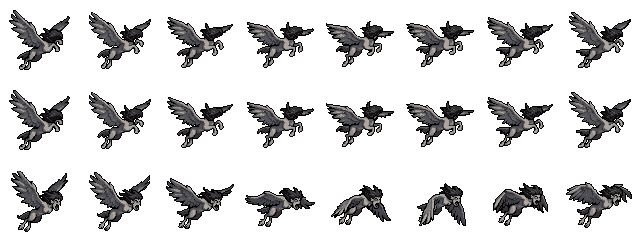
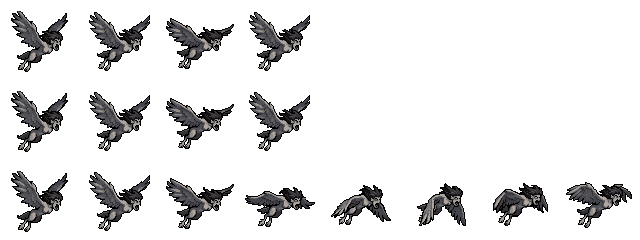
Smeltworks Idle v0.93.2: drawn weapons, calmer lich, harpy keeps her face
The six weapons are drawn art that still takes the colour of its socket count,
and are brighter than the monsters. The Drowned Lich idles without the staff
flashing, and the Gale Harpy's idle and flight show her face.

Claude-Session: https://claude.ai/code/session_01YJ1shjsdUrQRd5AoN76fPF

Changed region(s): [[0.0, 0.0292, 1.0, 0.2917], [0.0, 0.3792, 1.0, 0.6417]]

diff --git a/js/sprites.js b/js/sprites.js
@@ -877,6 +877,28 @@ function grid(name) {
   const rows = d.m ? d.rows.map(r => r + r.split('').reverse().join('')) : d.rows;
   return (d.grid = rows);
 }
+/* ---- Weapons are drawn art, kept here as pixels so they can still take the colour of their socket count: a number in
+   pal is a metal pixel, 0 (dark) to 1 (bright), painted from the palette's g, h and c; a string is a fixed colour.
+   Each is twice the size of a grid sprite (k), and drawn at half scale. */
+SP.ART = {
+  hammer: {"k":2,"pal":["#020202","#030202","#000100","#010101",0.875,1.0,"#040304",0.375,0.5,"#090808","#020201","#1b140e","#08080b","#000001",0.625,0.75,0.0,"#5d4439","#2f3137","#323337","#050402","#030100","#382a23","#040101","#533e30","#2f2620","#362620","#050302","#513b30","#473932","#3a2a21","#0a0605","#06060a","#242325","#291d16","#030302","#574236","#211914"],"rows":["................................","................................",".................abc............","................defea...........","...............gefhifj..kl......","..............befiiiifmnod......","..............oefhiiiifpmg......",".............mpfhhiiiiifhn......","............nheqhhhiiiiieia.....","............drshhhhhhhihiehn....",".............dsthhhhhhhhhhhoa...","..............dqqhhhhhhhhheqqb..","...............bqqhhhhhhheqqqb..","................nsqhhhhheqqqqu..","................vwbqqhheqqqqa...","...............xyzAdqqesqqqg....","..............xrAyB.gqsqqqa.....",".............xrzCB...dzqqk......","............gDDDB.....nck.......","...........dtBEF................","..........gqFzn.................",".........gGgHd..................","........BDmzdd..................",".......BFtmza...................","......uwzFHn....................","....cdDjImJ.....................","...nDKLDLc......................","..cDKALHu.......................","..cIDDDc........................","...dIyzk........................","....cck.........................","................................"]},
+  axe: {"k":2,"pal":["#000100","#040403","#020201",0.75,"#000000","#010101",0.25,0.625,0.5,"#030302",1.0,0.875,0.125,"#392d22","#070403","#695242","#564235","#3d3027",0.0,"#45342b","#664e3e","#423329","#110b07","#614e3f","#403126","#050402","#48382d","#4e3e31"],"rows":["................................","................................","......................ab........",".....................cde........","....................cdddf.......","...................fddgdha......","..................chdggghhc.....",".................ehdggggghif....","...............cedhggggggghhce..","..............fchdggggggggghdhae","..............jghggggggggggggkke","...............fgggggggggggglkka","................emgggggggggddle.","...............fncggggggggddda..","..............opqrcsgggggdddfc..",".............cppqtnasgggdddef...",".............cuvtva.cmmmddef....","...........jwpvvvc...ciihff.....","...........cxyvyc....cihoc......","..........zpyyyj......aaa.......",".........cxyyyf.................","........cxvyyb..................",".......fxxyrf...................","......bptyro....................",".....cutvyc.....................","....cpptvj......................","..caputyf.......................",".axxAAvz........................",".aqBAAc.........................",".anBBc..........................",".fonAc..........................","..aff..........................."]},
+  sword: {"k":2,"pal":[0.375,"#010101","#000000","#362721","#020203",1.0,"#050402","#030303",0.875,0.125,0.25,"#020202","#050403","#040303",0.0,0.75,"#3e2c24","#3f2b26","#050303","#3c2b24","#3d2b25"],"rows":["..............................a.","...........................bccad","..........................efffb.",".........................gfffab.","........................hiijaac.",".......................hiijkal..","......................miijkkb...",".....................hiijkkh....","....................giijkkb.....","...................niijkkh......","..................hiijkkb.......",".................liijkkh........","................biijkkl.........","...............liijkkh..........","..............eiijjkl...........",".............hiijkkh............","............miiokkl.............","...........hiiojkkb.............","..........liiojkkl..............",".........giiookkl...............","....bc..gppookkn................","...hkklbppookkn.................","....nkkhaookkg..................",".....nkkjqkkh...................","......ljjjoc....................",".....lrdjjjb....................","....sqqtbbjjl...................","...luqqg..sjg...................","..gqutl....l....................",".gtqds..........................","ndudb...........................",".ccc............................"]},
+  staff: {"k":2,"pal":["#020101","#060603",0.25,"#000000","#010100","#0d0e0f","#000100",0.375,0.5,"#303033","#11100e",1.0,0.625,"#030201",0.125,"#30231b",0.0,"#392d25","#090603","#483427","#20150b","#35281f","#2d1e15","#654e3c","#543d2f","#3e2d23","#5e4739","#503a2c","#49362b","#5e4535","#4b382c","#241a13","#3f2f24","#130a04","#6b5141"],"rows":["......................aaa.......",".....................bccadef....","....................bcaghhij....","...................bckdccllmj...","..................nhodcccclcib..","..................nhoacnbbcccn..","..................ahoabmincccag.","..................ahinmibcccpna.","..................nkcicaqqqobca.","...................ericnnqqncq..",".................stuvwoccfficn..",".................nxuyzpncccoa...",".................nABCtb.geee....","................nDzzrs..........","...............bzDpna...........","..............bExvna............","............nbFAGH..............","...........bAzptH...............","...........bAzvb................","...........Hyzn.................","..........sxrzn.................",".........HCxra..................","........HCDCd...................",".......uIxBe....................","......sAIGa.....................",".....HpDEs......................","...bHApye.......................","..nBCxps........................",".nIIvEn.........................",".nxGve..........................",".nBGd...........................","..ang..........................."]},
+  bow: {"k":2,"pal":["#000101",1.0,"#010101","#020201","#2c1f19",0.25,0.5,"#040403","#050202","#030302","#000100","#020101","#020303","#050201","#060100","#010102"],"rows":["..........abc...................","..........abbd..................","...........efgh.................","...........biggj................","...........b.hgf................","...........b..hgi...............","...........b..jggk..............","...........b...hgl..............","...........b...hgg..............","...........b...hggj.............","...........b....lgg.............","...........b....lgg.............","...........b....lgg.............","...........b....lfh.............","...........b....hbj.............","...........b....hgc.............","...........b....lfc.............","...........b....lga.............","...........b....jec.............","...........b....hbc.............","...........b....lfc.............","...........b....lggm............","...........b....lggh............","...........b....lggm............","...........b....fgl.............","...........b...ige..............","...........b...igj..............","...........b..ign...............","...........b.hgj................","...........bdgo.................","...........bdgc.................","..........ph.a.................."]},
+  dagger: {"k":2,"pal":["#030202","#040302","#010101",0.875,0.25,"#000000","#030201",1.0,0.375,"#46342b","#000100","#0a0806",0.125,"#060505",0.625,"#160c0a","#040201",0.5,0.0,"#48362d","#4b372d","#291e1b","#2e211d"],"rows":["................................","...........................abc..","..........................cdef..","........................gahijb..",".......................ghhiik...","......................lhhiiik...",".....................lhhmeik....","....................lhhmmiic....","...................lhhmmiif.....","..................chhmmiiif.....",".................bhdmmiiic......","................addmmiiia.......","...............nhoomiiia........","..............ahoomiiip.........",".........l...ghoomiiin..........","........gdp.qhoomeiip...........",".......lrirbdrrmmeii............","........nlireiemeein............",".........lbiisseeec.............","..........ppiiseef..............",".........ntuveenf...............","........qwuwwneef...............",".......njuvwwcneef..............","......bjjvwwq..cek..............",".....qtuvwwg....f...............","....gjtwwwb.....................","..bcipjwwg......................","..fidivwb.......................","..ciiimk........................","..keemmc........................","...ccff.........................","................................"]},
+};
+const hex3 = h => [parseInt(h.slice(1, 3), 16), parseInt(h.slice(3, 5), 16), parseInt(h.slice(5, 7), 16)];
+function artCanvas(name, pal, mode) {
+  const key = 'art|' + name + '|' + pal + '|' + (mode || ''); let c = cache.get(key); if (c) return c;
+  const d = SP.ART[name], P = Object.assign({}, BASE, SP.PAL[pal] || {}), g = hex3(P.g), h = hex3(P.h), l = hex3(P.c);
+  const metal = t => { const a = t < 0.5 ? g : h, b = t < 0.5 ? h : l, q = t < 0.5 ? t * 2 : t * 2 - 2 + 1; return 'rgb(' + a.map((v, i) => Math.round(v + (b[i] - v) * q)).join(',') + ')'; };
+  const lift = p => { const v = hex3(p); return Math.max(...v) < 48 ? p : 'rgb(' + v.map(q => Math.min(255, Math.round(q * 1.45 + 14))).join(',') + ')'; };      // weapons are drawn brighter than the monsters, to stand apart from them; the outline stays dark
+  c = document.createElement('canvas'); c.width = d.rows[0].length; c.height = d.rows.length; const x = c.getContext('2d');
+  const AL = 'abcdefghijklmnopqrstuvwxyzABCDEFGHIJKLMNOPQRSTUVWXYZ0123456789';
+  d.rows.forEach((r, j) => { for (let i = 0; i < r.length; i++) { if (r[i] === '.') continue; const p = d.pal[AL.indexOf(r[i])]; x.fillStyle = mode === 'flash' ? '#ffffff' : mode === 'shade' ? '#000000' : typeof p === 'number' ? metal(0.35 + 0.65 * p) : lift(p); x.fillRect(i, j, 1, 1); } });
+  cache.set(key, c); return c;
+}
 /* ---- Sprites kept as image sheets (img/), for art that is drawn and not built from the grids above. A sheet is
    rows of animations, every frame the same size. Anything that asks for a sprite by name gets one of these if the
    name is here: SP.size, SP.canvas and SP.draw all answer for it. */
@@ -900,8 +922,8 @@ SP.SHEETS = {
   d_ghoul: { src: 'img/d_ghoul.png', fw: 80, fh: 80, fps: 9, rows: { idle: [0, 8], walk: [1, 8], attack: [2, 8] }, box: [19, 14, 60, 72], side: true },
   d_wraith: { src: 'img/d_wraith.png', fw: 80, fh: 80, fps: 9, rows: { idle: [0, 8], walk: [1, 8], attack: [2, 8] }, box: [11, 16, 70, 76], side: true },
   d_necro: { src: 'img/d_necro.png', fw: 80, fh: 80, fps: 9, rows: { idle: [0, 8], walk: [1, 8], attack: [2, 5] }, box: [21, 14, 58, 72], side: true },
-  d_lich: { src: 'img/d_lich.png', fw: 96, fh: 96, fps: 8, rows: { idle: [0, 8], walk: [1, 8], attack: [2, 8] }, box: [20, 15, 75, 88], side: true },
-  d_harpy: { src: 'img/d_harpy.png', fw: 80, fh: 80, fps: 9, rows: { idle: [0, 8], walk: [1, 8], attack: [2, 8] }, box: [9, 10, 70, 79], side: true },
+  d_lich: { src: 'img/d_lich.png', fw: 96, fh: 96, fps: 5, rows: { idle: [0, 4], walk: [1, 8], attack: [2, 8] }, box: [20, 15, 75, 88], side: true },
+  d_harpy: { src: 'img/d_harpy.png', fw: 80, fh: 80, fps: 7, rows: { idle: [0, 4], walk: [1, 4], attack: [2, 8] }, box: [9, 10, 70, 79], side: true },
   d_cultist: { src: 'img/d_cultist.png', fw: 80, fh: 80, fps: 9, rows: { idle: [0, 8], walk: [1, 8], attack: [2, 8] }, box: [24, 14, 56, 72], side: true },
   d_wisp: { src: 'img/d_wisp.png', fw: 64, fh: 64, fps: 9, rows: { idle: [0, 8], walk: [1, 8], attack: [2, 8] }, box: [6, 6, 57, 64], side: true },
   d_wyrmling: { src: 'img/d_wyrmling.png', fw: 80, fh: 80, fps: 9, rows: { idle: [0, 8], walk: [1, 8], attack: [2, 8] }, box: [11, 20, 68, 72], side: true },
@@ -936,10 +958,11 @@ function sheetCanvas(name, mode, fr) {
   if (mode === 'flash' || mode === 'shade') { x.globalCompositeOperation = 'source-in'; x.fillStyle = mode === 'flash' ? '#ffffff' : '#000000'; x.fillRect(0, 0, d.fw, d.fh); }
   sheetCache.set(key, c); return c;
 }
-SP.size = name => { if (SP.SHEETS[name]) { const b = SP.SHEETS[name].box; return { w: b[2] - b[0], h: b[3] - b[1] }; } /* (a sheet's size is its figure's, not its frame's) */ const g = grid(name); return { w: g[0].length + 2, h: g.length + 2 }; };
+SP.size = name => { if (SP.ART[name]) { const d = SP.ART[name]; return { w: d.rows[0].length / d.k, h: d.rows.length / d.k }; } if (SP.SHEETS[name]) { const b = SP.SHEETS[name].box; return { w: b[2] - b[0], h: b[3] - b[1] }; } /* (a sheet's size is its figure's, not its frame's) */ const g = grid(name); return { w: g[0].length + 2, h: g.length + 2 }; };
 /* returns a canvas with the sprite at 1px per cell, plus a dark outline. opts: flash (all white), tint */
 SP.canvas = function (name, pal, mode, fr) {
   if (SP.SHEETS[name]) return sheetCanvas(name, mode, fr);
+  if (SP.ART[name]) return artCanvas(name, pal, mode);
   const key = name + '|' + pal + '|' + (mode || '');
   let c = cache.get(key);
   if (c) return c;
@@ -968,6 +991,7 @@ SP.url = function (name, pal, scale) {
   let u = urls.get(key);
   if (u) return u;
   const src = SP.canvas(name, pal), c = document.createElement('canvas');
+  if (SP.ART[name]) scale = Math.max(1, Math.round(scale * 18 / src.width));      // drawn art fills the same box a grid sprite does
   c.width = src.width * scale; c.height = src.height * scale;
   const x = c.getContext('2d'); x.imageSmoothingEnabled = false;
   x.drawImage(src, 0, 0, c.width, c.height);
@@ -976,6 +1000,7 @@ SP.url = function (name, pal, scale) {
 };
 SP.draw = function (ctx, name, pal, x, y, scale, o) {
   const c = SP.canvas(name, pal, o && o.mode, o && o.fr);
+  if (SP.ART[name]) scale /= SP.ART[name].k;
   const w = c.width * scale, h = c.height * scale;
   ctx.save();
   ctx.translate(x, y);

diff --git a/js/data.js b/js/data.js
@@ -34,7 +34,7 @@ const U = SW.util = {
 };
 
 const D = SW.data = {};
-D.VERSION = '0.92.1';
+D.VERSION = '0.93.2';
 D.SAVE_KEY = 'smeltworks-idle-v1';
 /* Play data (js/telemetry.js): where it is posted, and the only addresses of the game it is ever sent from */
 D.TELEMETRY = { url: 'https://smeltworks-idle-logging.sdwr.workers.dev/ingest', hosts: ['sdwr.github.io'] };
